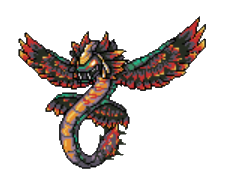
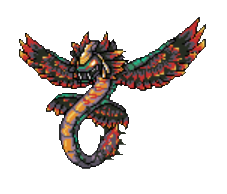
Boss

diff --git a/src/Panel.java b/src/Panel.java
@@ -70,6 +70,7 @@ public class Panel extends JLayeredPane implements ActionListener, KeyListener {
     Image mysteryRing;
     Image mysteryCharm;
     Image mysteryShoe;
+    Image bossImage;
     int bgrWidth;
     int bgrHeight;
     ArrayList<int[]> allObstacles;
@@ -138,6 +139,7 @@ public class Panel extends JLayeredPane implements ActionListener, KeyListener {
         mysteryRing = new ImageIcon("resources/Mystery_Ring.png").getImage();
         mysteryCharm = new ImageIcon("resources/Mystery_Charm.png").getImage();
         mysteryShoe = new ImageIcon("resources/Mystery_Shoe.png").getImage();
+        bossImage = new ImageIcon("resources/Boss.png").getImage();
         bgrHeight = bgrImage.getHeight(null)/2;
         bgrWidth = bgrImage.getWidth(null)/2;
 
@@ -158,6 +160,7 @@ public class Panel extends JLayeredPane implements ActionListener, KeyListener {
         bow = new Bow(player1, this, bowImage);
         bow2 = new Bow(player2, this, bowImage);
         this.addMouseListener(bow);
+
 
         player1.setAllArrows(bow2.allArrows);
         player1.setAllArrowsSelf(bow.allArrows);
@@ -306,8 +309,15 @@ public class Panel extends JLayeredPane implements ActionListener, KeyListener {
         bow.drawBow(g2d, player1, player2, bowImage, playerImage, bow2);
         g2d.setTransform(oldXForm);
 
+        if (!player1.bowPickedUp){
+            g2d.drawImage(bowImage, bowX, bowY, bowImage.getWidth(null)/24, bowImage.getHeight(null)/24,null );
+        }
+        if (!player1.swordPickedUp){
+            g2d.drawImage(swordImage, swordX, swordY,player1.width, player1.height * 2, null);
+        }
+
         //Boss
-        boss.drawBoss(g2d,playerImage);
+        boss.drawBoss(g2d,bossImage);
 
         //Ui
         ui.drawUi(g2d, hpImage);
@@ -321,12 +331,7 @@ public class Panel extends JLayeredPane implements ActionListener, KeyListener {
         if (inChat || inInv) {
             ui.drawIcons(g2d, schildImage, swordImage, bowImage, speedImage);
         }
-        if (!player1.bowPickedUp){
-            g2d.drawImage(bowImage, bowX, bowY, bowImage.getWidth(null)/24, bowImage.getHeight(null)/24,null );
-        }
-        if (!player1.swordPickedUp){
-            g2d.drawImage(swordImage, swordX, swordY,player1.width, player1.height * 2, null);
-        }
+
         super.paint(g);
     }
 

diff --git a/src/Boss.java b/src/Boss.java
@@ -13,7 +13,7 @@ public class Boss {
         this.damage = damage;
     }
     public void drawBoss(Graphics2D g2d,Image bossImage){
-
+        g2d.drawImage(bossImage,x,y,bossImage.getWidth(null)*2,bossImage.getHeight(null)*2,null);
     }
     public void tick(double dt){
 
